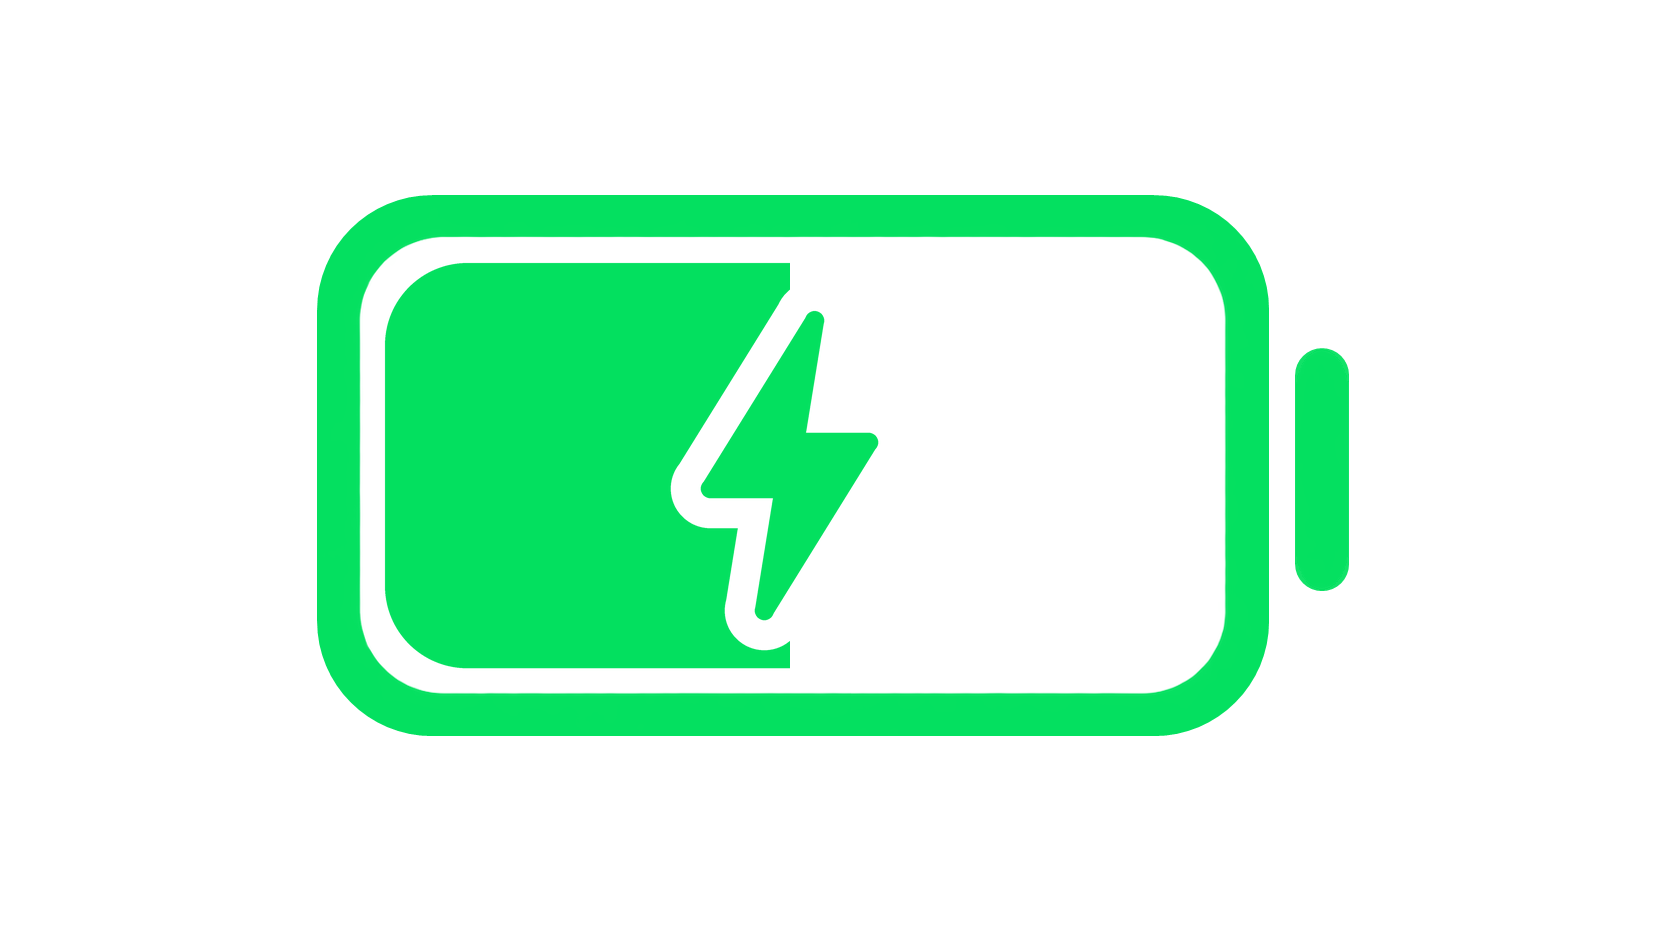
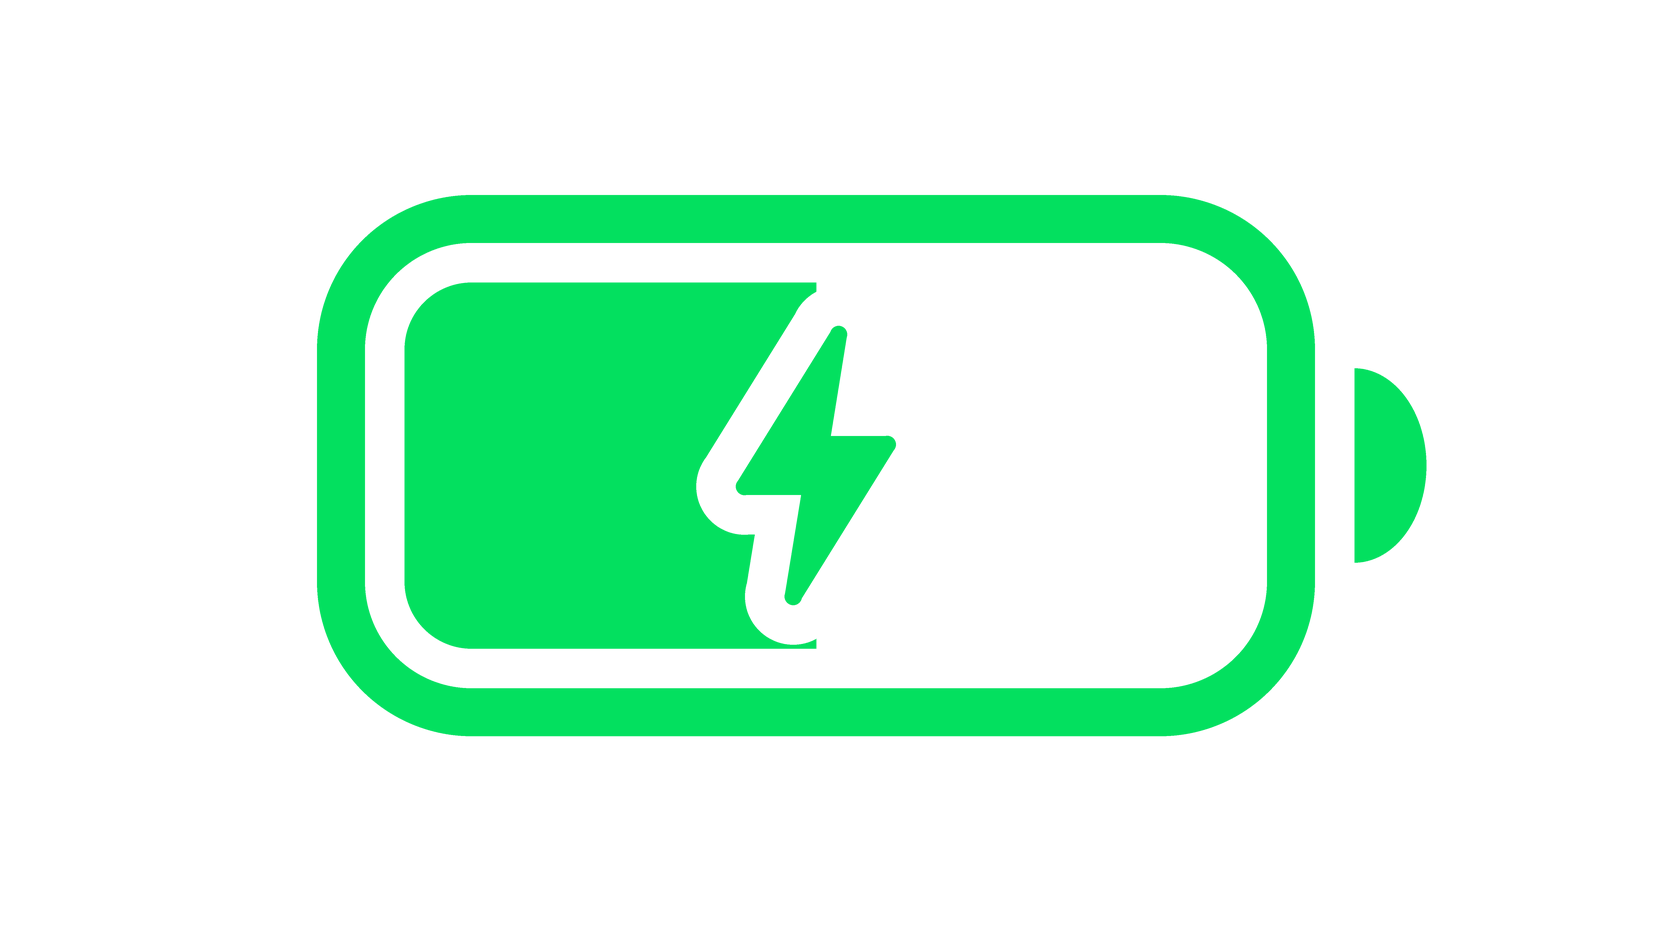
Charge tile (mobile): battery drawn to Apple's battery proportions
Measured from Apple's battery icon and scaled to our battery's height:
line 9% of the height, the same gap to the charge, corners at 0.29 of
the height, and a half-round terminal. The half charge and solid bolt
stay. Mask link bumped to ?v=5.

Claude-Session: https://claude.ai/code/session_01Nj5fkn8CGETFAurUPLGWfd

Changed region(s): [[0.1866, 0.216, 0.8708, 0.8021], [0.2488, 0.1851, 0.2799, 0.216]]

diff --git a/theme-draft/assets/voltical-pdp-bold.css b/theme-draft/assets/voltical-pdp-bold.css
@@ -2487,17 +2487,19 @@
     object-position: -100000px 0;
   }
   /* Charging, half full: the mask is battery-charging.webp (bump ?v= when
-     the image changes: the link has no version of its own): the original
-     outline and terminal nub (battery-outline.webp), the charge as a rounded
-     bar inset by a gap and kept up to the middle of the inside, and a solid
+     the image changes: the link has no version of its own), drawn to the
+     proportions of Apple's own battery icon at our battery's height: line
+     9% of the height, the same gap again to the charge, corners rounded at
+     0.29 of the height, and a half-round terminal one gap from the body.
+     The charge is kept up to the middle of the inside, with a solid
      lightning bolt with softly rounded corners centred on it
      so half sits on the charge and half on the empty part. Where it crosses
      the charge, the charge is cut back by the same gap as the outline's, as
      the iPhone's charging battery does. The <img> itself (and desktop)
      still uses the original file. */
   .template-product .pdp-cmp__card--charge .pdp-cmp__battery-icon {
-    -webkit-mask: url("battery-charging.webp?v=4") 0 0 / 100% 100% no-repeat;
-    mask: url("battery-charging.webp?v=4") 0 0 / 100% 100% no-repeat;
+    -webkit-mask: url("battery-charging.webp?v=5") 0 0 / 100% 100% no-repeat;
+    mask: url("battery-charging.webp?v=5") 0 0 / 100% 100% no-repeat;
   }
 }
 
